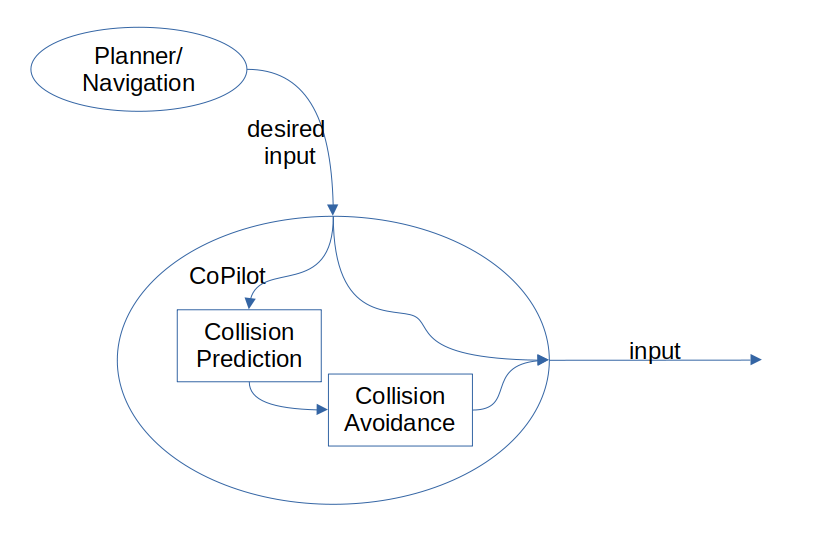
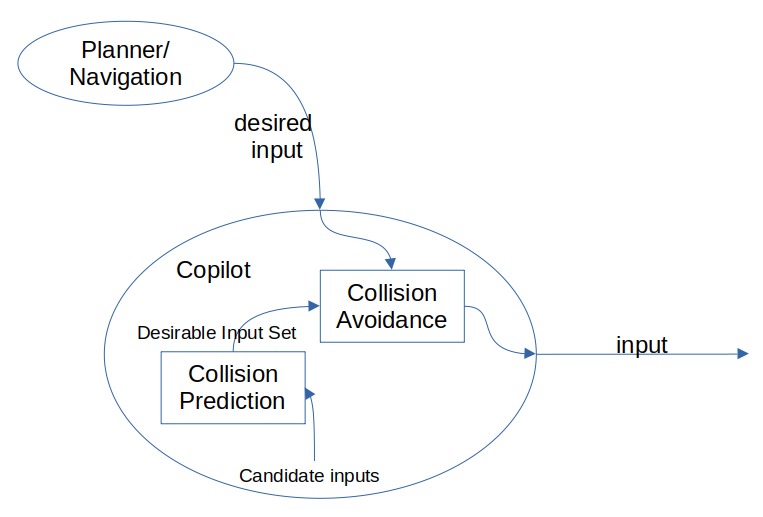
move away from talking about predicting collisions based on desired inputs

diff --git a/docs/sources/copilot/index.rst b/docs/sources/copilot/index.rst
@@ -1,6 +1,18 @@
 The Copilot
 ===========
 
+3Laws provides the *Copilot* as an add-on that can check and augment an existing planner or
+controller.  The high-level idea is that the Copilot monitors the robot's state and
+next motion commands in real-time. If the model predicts that the system will experience
+undesirable behavior (based on the commands and system dynamics), then the commands will
+be altered to avoid the undesirable outcome in a minimally disruptive way.
+
+The off-the-shelf packaging of *Copilot* supports a few pre-built operational situations
+such as collision avoidance for a selection of robot systems such as unicycle (differnential-
+drive) and bicycle (front-steering) vehicles.  Other operational situations like
+geofencing or attitude stabilization can be implemented as custom behaviors.  Similarly,
+other operational platforms including articulated robots, aerial and marine vehicles, and
+specialized devices can also be implemented by 3Laws.
 
 Basic Architecture
 ------------------
@@ -14,7 +26,7 @@ attitude/speed controller for an articulated robot.
    :width: 700px
    :alt: CoPilot Architecture showing inputs and outputs from a typical Copilot
 
-The CoPilot will evaluate the likelihood of a collision and will only modify
+The CoPilot will evaluate the likelihood of a collision (or other undesirable behavior) and will only modify
 the desired input from the planner when a collision is predicted within the
 estimation window.
 
@@ -28,7 +40,8 @@ There are 2 main steps to integrate CoPilot into an existing stack:
    as the path to follow, the vehicle speed, or the navigation) and set it as
    the input to the CoPilot.  Then remap the input of the controller (or
    component that converts the navigation instructions into hardware/
-   actuator instruction to use the output of CoPilot.
+   actuator instruction to use the output of CoPilot. With ROS, for example,
+   the re-mapping can be done in the launch routines.
 2. Start the CoPilot as part of the stack.
 
 
@@ -43,10 +56,15 @@ currently available.
 +=====================+=====================+================+
 | Unicycle            |    in development   |                |
 +---------------------+---------------------+----------------+
+| Omnidirectional     |    in development   |                |
++---------------------+---------------------+----------------+
 | Bicycle             |    in development   |                |
 +---------------------+---------------------+----------------+
-| Copter Drone        |                     | in development |
+| Copter Drone        |    in development   | in development |
 +---------------------+---------------------+----------------+
+
+In terms of handling the objects in the space, these routines support laser scans and list of obstacles (with geometries).  Using lists of perceived
+obstacles typically results in lower computational loads.
 
 Applications
 ------------
@@ -81,7 +99,7 @@ autonomy stack at different locations based on the needs for time-criticality.
 CoPilot it most often deployed between the planner and the inner-loop controller,
 but it can also be deployed between the inner-loop controller and the hardware
 for cases where the vehicle, like a racing copter, is going to approach
-undesirable configurations at rates that the high-level planner is unable to
+undesirable configurations at rates that the high-level planner is able to
 replan-for, or if the system is being controlled by a human (or automated
 planner) that is not aware of the position of the drone relative to the keep-out
 area.
@@ -104,17 +122,20 @@ Platforms
 layout) and Application. These are the most common use-cases that 3Laws is
 aware of.
 
-**Unicycle:** A wheeled-ground-based robot with differential drive for steering
+**Unicycle** describes a wheeled-ground-based robot with differential drive for steering
 and coordinated drive for forward/back motion.  The vehicle is able to stop and
 rotate in-place. Configuration parameters include wheel radius, distance between
 the wheels, vehicle extents, acceleration limits, and speed limits.
 
-**Bicycle:** A vehicle that can be modeled with a single-track rolling model
-(e.g. car, truck, golf-cart).  Control consists of speed and steering. Rear
-wheels do not steer. Configuration parameters include wheel radius, maximum
+**Bicycle** includes vehicles that can be modeled with a single-track rolling model
+(e.g. car, truck, golf-cart). Current models use front-wheel steering.
+Control consists of speed and steering. Configuration parameters include wheel radius, maximum
 steering angles, effective wheelbase, vehicle extents, vehicle mass,
 acceleration limits, speed limits, and for faster vehicles, understeer
 gradient.
+
+**Omnidirectional** robots can move longitudinally and laterally, often at
+the same time.
 
 **Copter:** Flying vehicle that can move and rotate freely in a 3-dimensional
 world, but must be upright most of the time to avoid colliding with the ground.
@@ -124,13 +145,13 @@ acceleration limits, and speed limits.
 Theory of Operation
 -------------------
 
-The 3Laws Copilot is a product that uses theories from **invariant set** math for the states of systems to create a mechanism to keep the devices away from
+The 3Laws Copilot is a product that uses theories from *invariant set* math for the states of systems to create a mechanism to keep the devices away from
 undesiread state configurations (e.g. unsafe areas, unstable configurations). For systems that
 are controlled through feedback or feedforward, the desirable state is based
 on the needs of the operation and what sensing/actuation methods are
-available. The concept of an **invariant set** is that once the
+available. The concept of an *invariant set* is that once the
 system is within the set, it can be kept within that set by the control or
-planning ("failsafe") signals based on system dynamics.  For collision avoidance scenarios, the
+planning signals based on system dynamics.  For collision avoidance scenarios, the
 desired set is space where the distance to the nearest object (and relative
 approach speed) is maintained sufficiently large.  In the case of geo-fencing
 applications the desired invariant set is anywhere other than the geo-fenced
@@ -148,40 +169,51 @@ Gurriet, Thomas. "Applied safety critical control." PhD diss., California Instit
 Singletary, Andrew, Shishir Kolathaya, and Aaron D. Ames. "Safety-critical kinematic control of robotic systems." IEEE Control Systems Letters 6 (2021): 139-144.
 
 The basic concept is to use the current state of a dynamical system (robot arm,
-mobile device, aircraft, marine vessel, etc.) to drive a model of that system
+mobile device, aircraft, marine vessel, etc.) and a predetermined set of
+possible actions to drive a model of that system
 to predict when an undesirable condition will occur.
 Inputs including locations, geometries, speeds, and accelerations of obstacles
-are also needed when the CoPilot is designed for collision avoidance. One way to do this is to predict
-when a collision will occur and to modify the currently
-requested steering/speed/attitude commands as necessary.  The CoPilot then uses
-alternative planning/control strategies to calculate the commands to
-slow or divert the device away from the collision path.  The alternative strategies are built into the CoPilot by 3Laws based on the objective
+are also needed when the CoPilot is designed for collision avoidance. The
+approach predicts what possible actions would lead to keeping the robot in a
+desirable configuration (e.g. a desirable input set), and then to
+modify the currently requested steering/speed/attitude commands to use the
+closest values in the desirable input set.  The CoPilot then publishes
+modified inputs to
+slow or divert the device away from the collision path.  The families of
+possible actions are built into the CoPilot by 3Laws based on the objective
 for the particular deployment.
 
 Set-invariant theories are implemented through Control Barrier Functions (CBFs)
-which can be used to describe the desired state set (e.g. the safe set). It
+which can be used to describe the desired state set (e.g. the "safe" set). It
 is typically not possible to come up with an explicit expression to describe
 the desired invariant set, so some alternative approaches to enforce the same
 concepts have been developed. The CBFs also provide requirements on what
-conditions the backup/recovery commanding strategy must satisfy to keep the system
-state inside the target set.  Those requirement involve combining the
+conditions the desired inputs must satisfy to keep the system
+state inside the target space.  Those requirement involve combining the
 derivatives of the CBFs with respect to the state variables and the equations
 of motion of the original system. The resulting expression is a multi-dimensional
-inequality.  The equation of motion of the system is a function (typically
+inequality which can be solved through Quadratic Programming.
+The equation of motion of the system is a function (typically
 nonlinear) of the current system state and of the inputs to the system.  Since
-the failsafes are used to commands the system, one can evaluate if
-a particular failsafe strategy satisfies the relationships that will result
+the possible acions would be used as control commands the system, one can evaluate if
+a particular choice satisfies the relationships that will result
 in keeping the state inside the target set/space.
 
 
 CoPilot Operational Modes
 -------------------------
 
+Understanding of the discussion in this section is not necessary for use of
+the off-the-shelf configurations that are provided.  These operational modes
+are pre-programmed into the software.  If the platform or application is not
+one of the options discussed above the modes below are options that 3Laws
+will consider when building a new application/platform.
+
 Based on the physical system being used and the desired operation conditions,
 the CoPilot has multiple methods to produce solutions determine the best
 failsafe strategy to use at any time. CoPilot currently supports the following
 methods, but 3Laws has already selected the most appropriate for the dynamical
-systems that is has implemented.
+systems/applications that is has implemented.
 
 **Explicit:**
 For simple physical systems it is possible to construct analytical
@@ -190,7 +222,7 @@ spans x=[-1,1] and y=[-1,1], the barrier function (inequalities) can be x^2-1 >=
 motion for the system, various failsafe strategies can be evaluated for
 compliance with the needs.  
 
-One can use a QP solver to find the best failsafe strategy.
+One can use a QP solver to find the command that best keeps the vehicle in the desired region.
 
 A problem with the explicit approach is that if the system reaches the
 boundary of the safety set, then the desired input from the planner is
@@ -205,21 +237,22 @@ than the others, that strategy is applied.  Once the system is no longer at
 the boundary of the safe region, motion requests from the planner are applied
 instead of being overridden. 
 
-**Implicit:** Another approach is to create a failsafe strategy ahead of time.
-The system's equations of motion can then be integrated forward in time over
-a fixed horizon (e.g. 10 seconds) with the current command requests and the
-failsafes applied over the entire
-time. If the forward projection estimates that the system would depart from
-the desired set, then the failsafe strategy is applied instead of the currently
-requested motion.  By starting the application of the failsafe as soon as a
-departure is predicted, the system can be kept inside the set.
-We don't know how far we are from the edge of the control invariant set, but
-we can measure the distance to the edge of the original "safety" set.
+**Implicit:** Another approach is to create a family of available actions
+ahead of time.  These actions are propagated to develop the set of actions
+that will keep the device in the desired space and which will not.
+Next, an optimization is made to find the commands in the desired space that
+are closest to the desired input commands.  Note that if the current
+desired inputs are already in the desired set, then there will be no changes
+to those inputs.  An interesting feature of this approach is that the
+approach starts pushing away from the raw desired inputs when the desired inputs
+ begin to violate the desired objectives.
+3Laws won't know how far the robot is from the edge of the control invariant set, but
+the code can measure the distance to the edge of the original "safety" set.
 
-When integrating over the trajectory, also integrates the sensitivity. The
-sensitivity gives information about what modifications to the failsafe
-could be made. The sensitivity at each point is the effect of changing the
-failsafe at the beginning of the integration. The edge of the control
+When integrating over the space, the approach also integrates the sensitivity. The
+sensitivity gives information used to compute the optimally close (to the
+original) inputs. The sensitivity at each point is the effect of changing the
+action at the beginning of the integration. The edge of the control
 invariant safety
 set is described by the collection of multiplying the gradients of the full safety
 sets times the gradient of the equation of motion times the sensitivity over the horizon of integration. This results in a scalar constraint
@@ -228,11 +261,11 @@ work as constraints on a quadratic problem that is searching for the best
 failsafe strategy to apply.
 
 **Implicit with switching:** To make the system less prone to getting stuck
-when using the implicit approach, a family of failsafes can be used to calculate
+when using the implicit approach, a larger family of possible actions can be used to calculate
 the various forward integrations.  This ends up being computationally
-costly, so algorithms have been created to switch between possible failsafes
+costly, so algorithms have been created to switch between possible modifications
 to produce a good failsafe for the current step.
 
 
-Additional parameters may be added based on the equations of motion for the
+Additional parameters will be added based on the equations of motion for the
 individual system.
